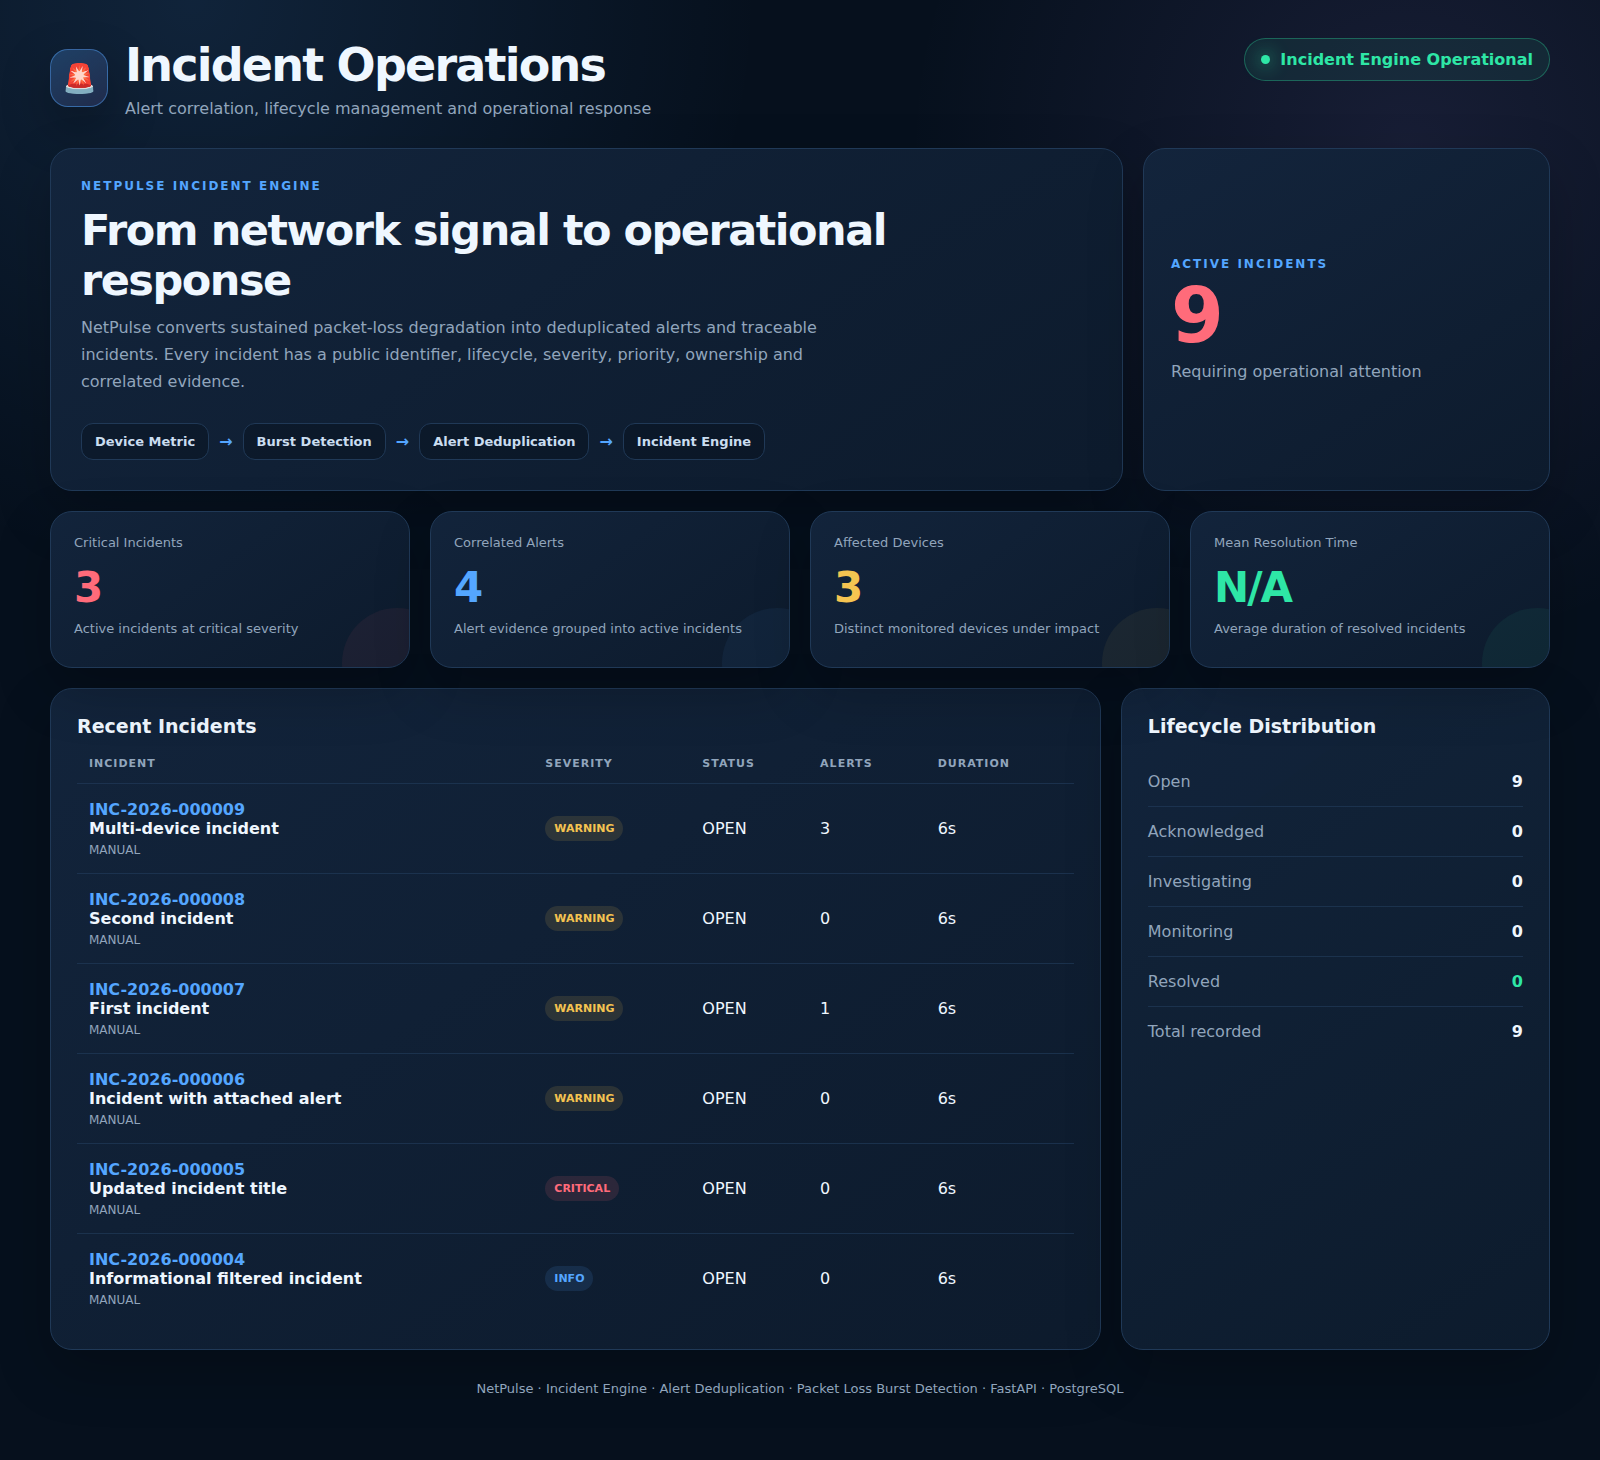
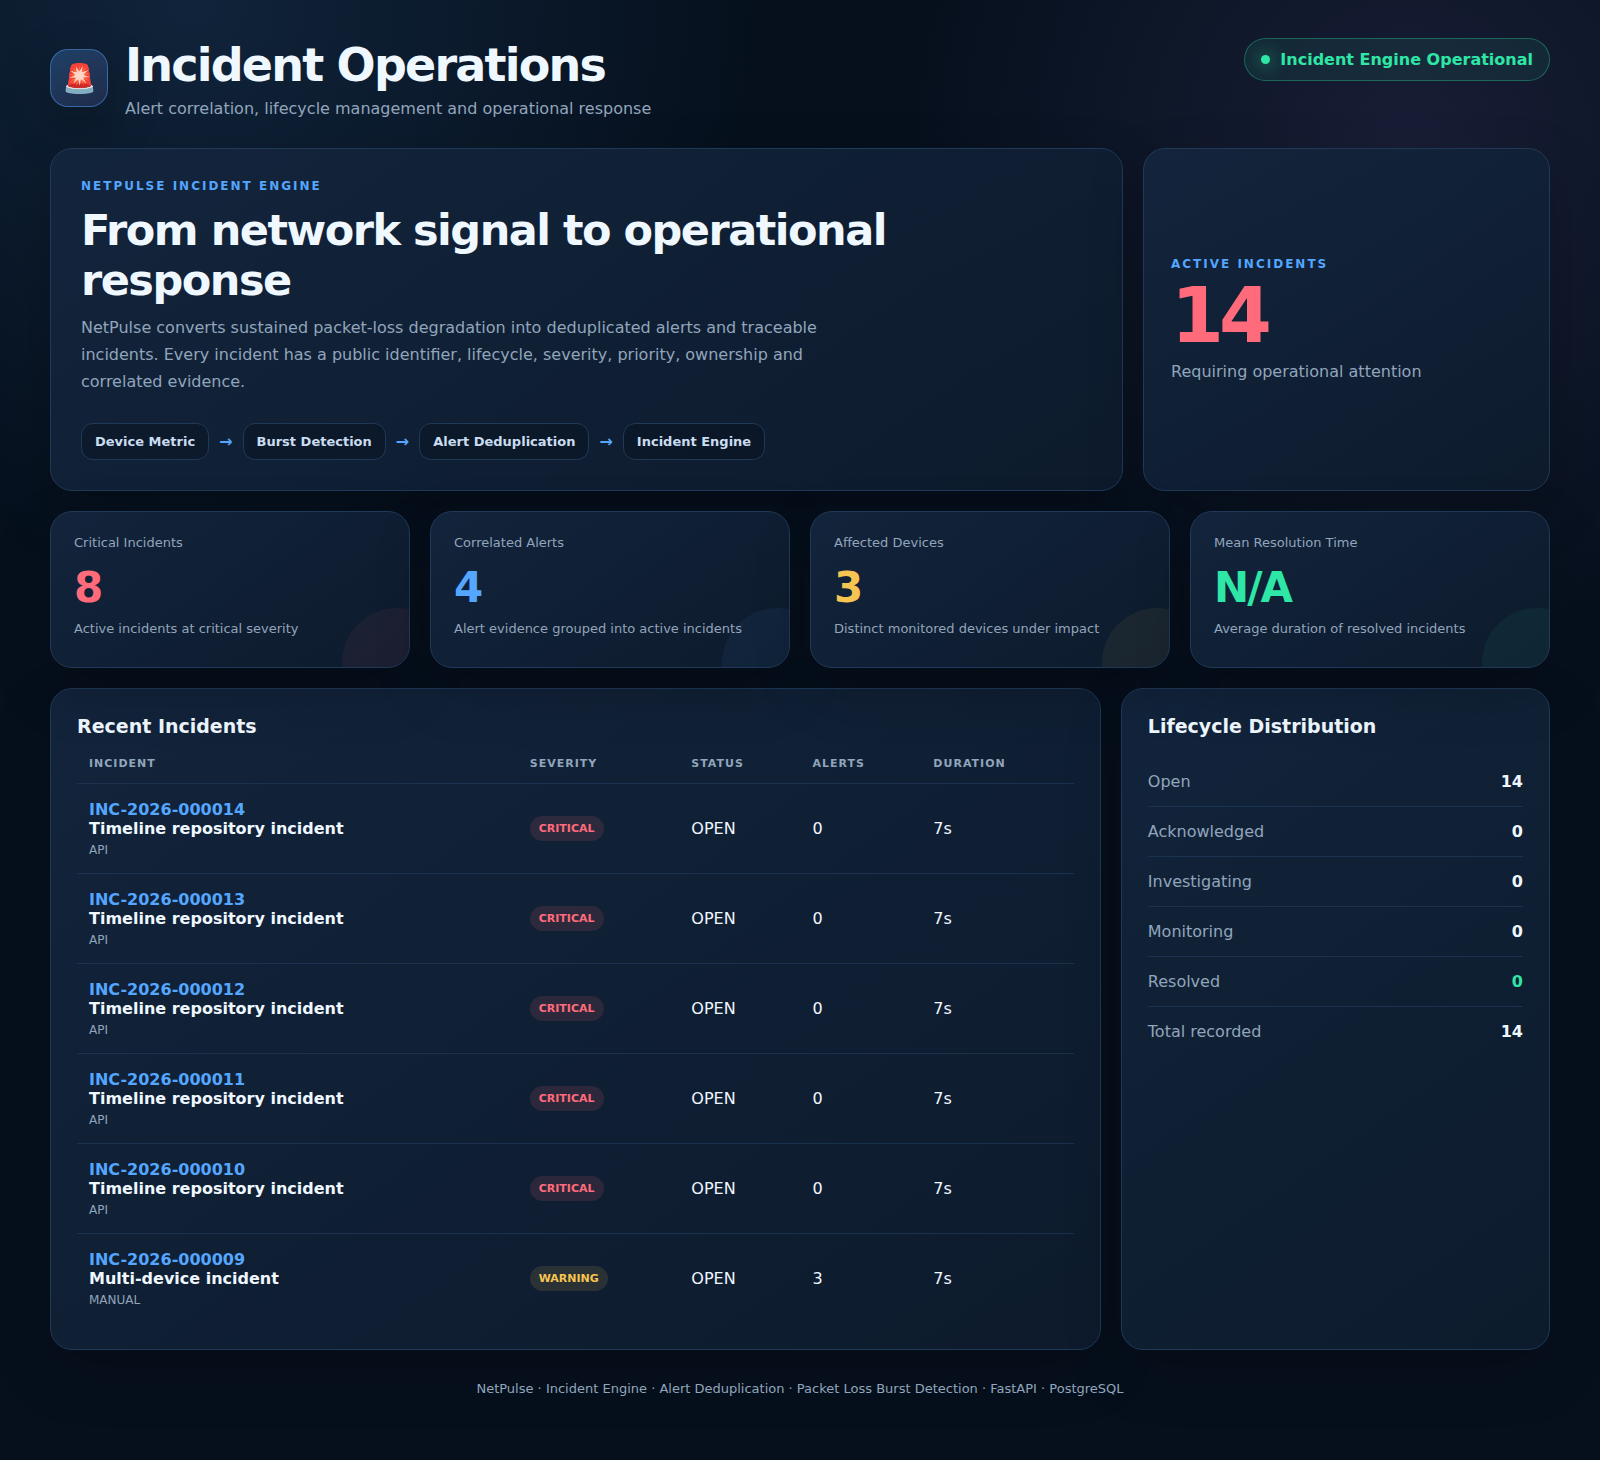
docs(portfolio): update automated evidence [skip readme-sync]

diff --git a/README.md b/README.md
@@ -200,11 +200,11 @@ See `SECURITY.md` for details.
 
 Generated automatically from tests, commits, and screenshots.
 
-_Last automation run: 2026-07-17 20:37 UTC_
+_Last automation run: 2026-07-17 20:47 UTC_
 
 ### ✅ Automated Quality
 
-- **Tests:** 202 passed
+- **Tests:** 217 passed
 - **Warnings:** 1
 - **CI:** GitHub Actions
 - **Security:** CodeQL
@@ -212,14 +212,14 @@ _Last automation run: 2026-07-17 20:37 UTC_
 
 ### 🧠 Recent Engineering Milestones
 
+- ✨ **incident** — add append-only timeline services
+- 📝 **portfolio** — update automated evidence [skip readme-sync]
 - ✨ **incident** — add incident timeline domain foundation
 - 📝 **portfolio** — update automated evidence [skip readme-sync]
 - ♻ **schemas** — migrate notification log to pydantic v2
 - 📝 **portfolio** — update automated evidence [skip readme-sync]
 - 📝 **portfolio** — refresh incident dashboard evidence
 - 📝 **portfolio** — refresh incident dashboard evidence
-- 📝 **portfolio** — update automated evidence [skip readme-sync]
-- ✨ **incident** — create incidents from packet loss bursts
 
 ### 📸 Automated Screenshots
 
